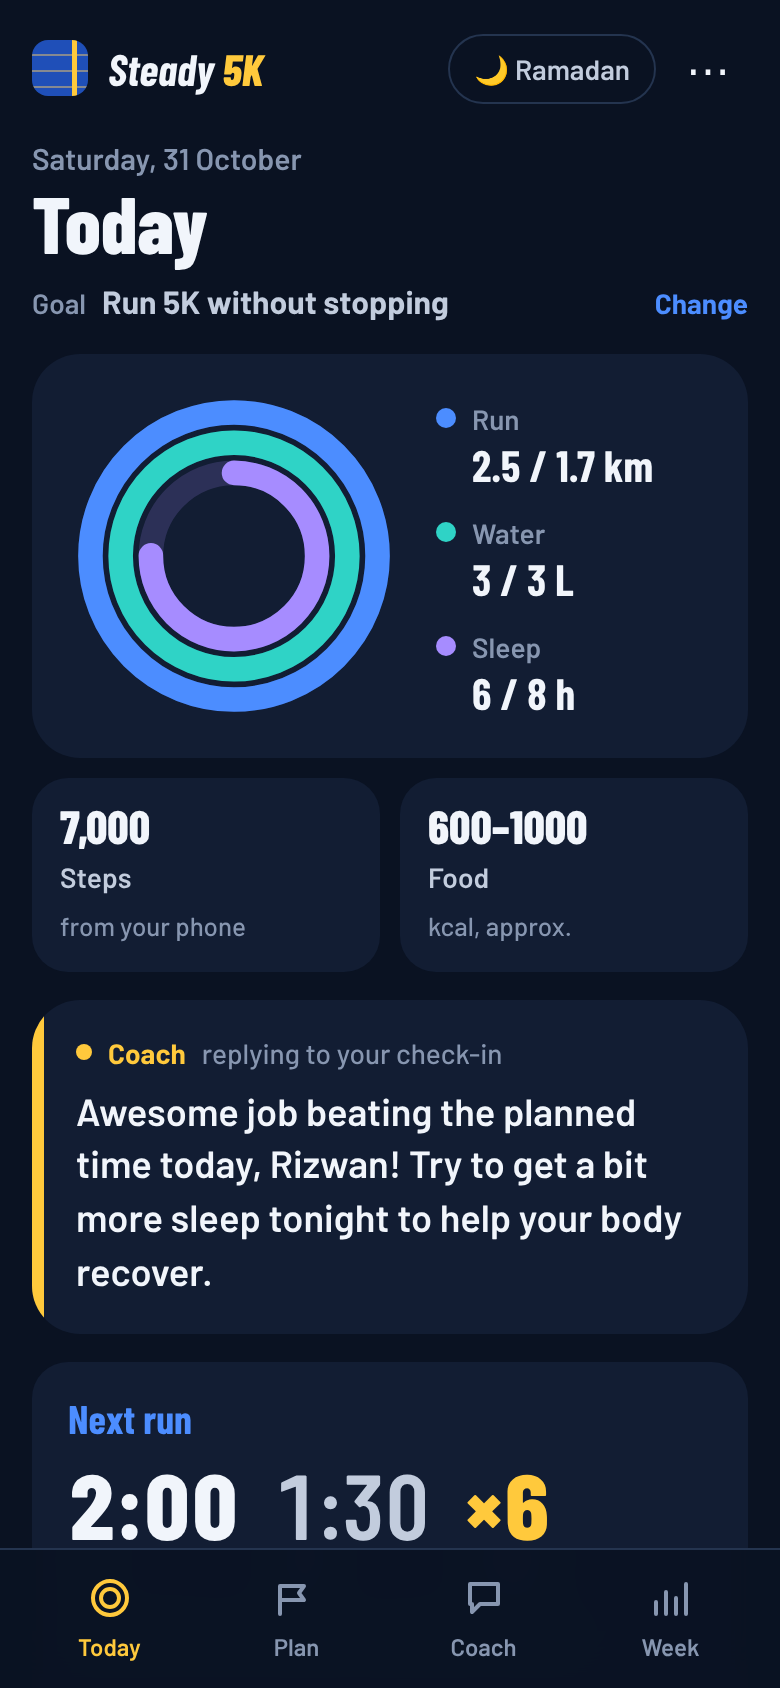
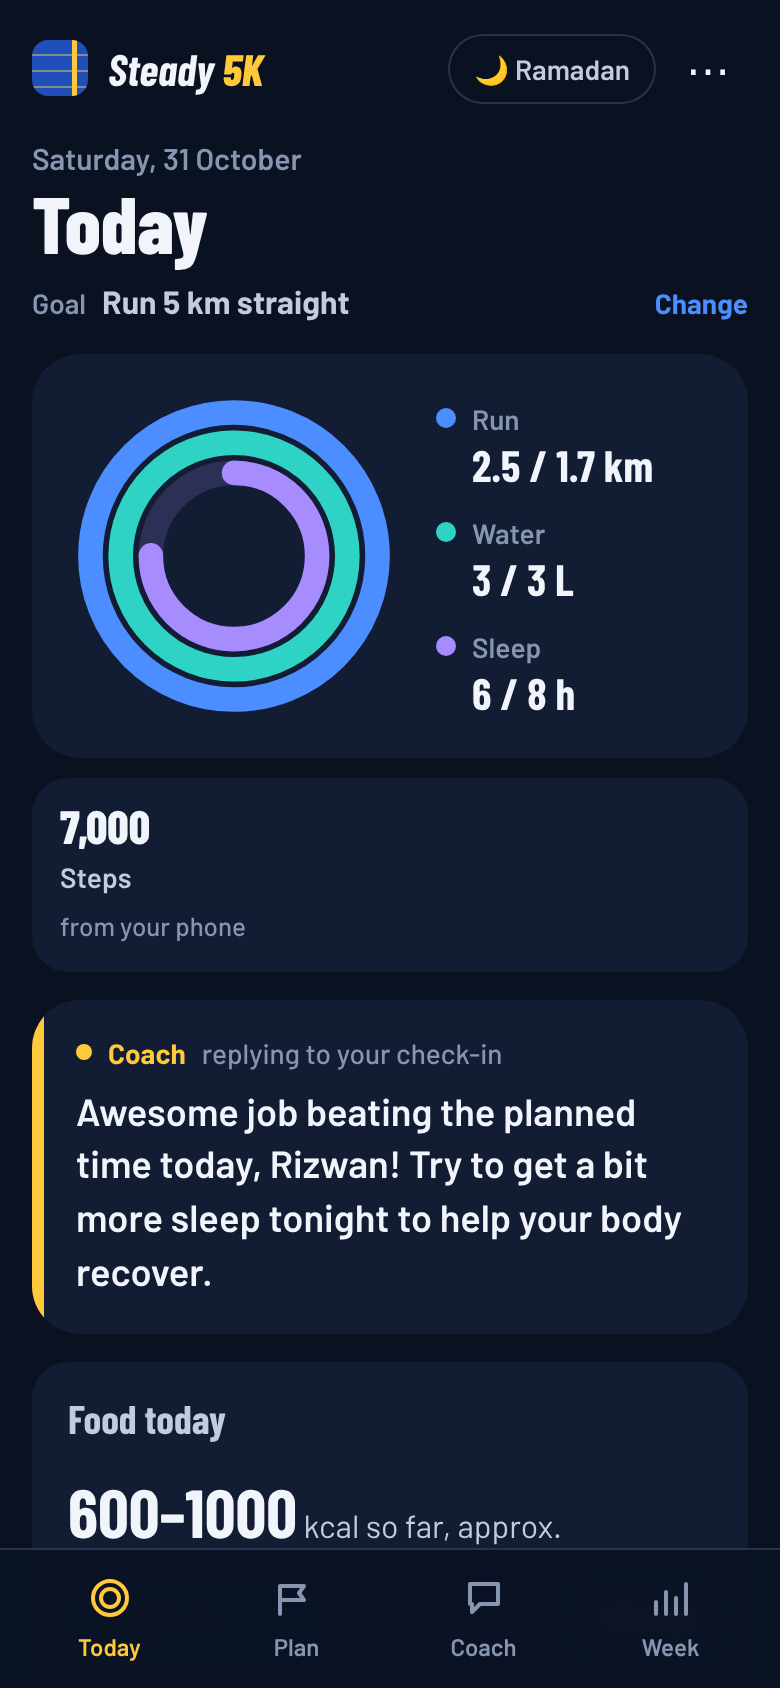
Q4/Q5: write up Rizwan's test and the changes it led to (own-words goals, level question with a reason, calorie goal, editable goals); new screenshots
Claude-Session: https://claude.ai/code/session_01KnAXkYM5bv2tZhbofiWiib

diff --git a/REPORT.md b/REPORT.md
@@ -54,7 +54,7 @@ My customer is **Rizwan, 22, a college student who started running two months ag
 - **Reason 3 (paywalls destroy trust):** he is one of the few people in my research who would pay, and only for real personalisation. That is the bar the app has to clear.
 - Generic apps fail hardest when life changes (Kidman et al. list "evolving needs" as a reason people leave). Ramadan is a predictable, month-long change that no app Rizwan uses accounts for.
 
-Choosing Rizwan also removes several class concerns: D03 (no target age group), D02 and D01 (too many features: he named five things he cares about and left out steps), D05 (wearables: he runs with his phone) and D09 (no celebrity avatars needed).
+Choosing Rizwan also removes class concerns D01–D03 (no target user, too many features), D05 (he runs with his phone) and D09 (no celebrity avatars).
 
 ## Q3. What does AI do in my app that ordinary software could not?
 
@@ -108,7 +108,7 @@ Every screen shows a "not medical advice" notice, and only made-up data is used.
 | ID | Feature | Build now / Later / Never | Reason |
 |---|---|---|---|
 | F01 | Food photo to calories | Later | Rizwan ranked calories last, his food is home-cooked and easy to describe in words, and photo estimates of regional dishes are unreliable (D06, D11). Respondent A asked for it, so it is the first thing to add if users want more food help. |
-| F02 | Profile and goals | Build now (changed) | No profile form and no BMI. He picks one of the two goals he named, **5K non-stop** or **10K**, then describes his running in his own words; the AI sets his start step and finish date. Goals are saved, each with its own progress, so he just taps one when he opens the app. Open-ended goals ("get healthy") are left out on purpose (Q2). The "how I want to look" image is **Never**: body-image targets do not fit his goal and carry real harm. |
+| F02 | Profile and goals | Build now (changed after the user test) | No form and no BMI. He writes his goals in his own words and the AI turns them into goals the app supports: 5K non-stop, 10K, or keeping track of calories. Goals are saved, editable, and all keep going; he picks one to focus on. Weight-loss or body-shape targets are declined (Q2, safety), as is the "how I want to look" image (**Never**). |
 | F03 | Activity tracking | Build now (running and steps) | Run distance, time and walk breaks come from his message. Steps are logged from what he reads off his phone ("7k steps"), because a browser cannot read the phone's step counter; he left steps out of his ranking, so they are shown but never drive the plan. Cycling: Never. |
 | F04 | Diet plan | Never (calorie deficit) / Build now (water) | He wants to become a runner, not lose weight, and a deficit plan for a fasting 22-year-old is a risk. The daily water target stays, because thirst is his biggest problem. |
 | F05 | Progress tracker | Build now (changed) | Progress means steps towards 5K non-stop and a finish-line date (Q1, reason 2). The fasting tracker becomes Ramadan mode (N01). Supplements and reward points: **Never** (Q1, reason 3). |
@@ -132,28 +132,31 @@ Every screen shows a "not medical advice" notice, and only made-up data is used.
 | N05 | Offline demo mode | Build now | If the AI call fails (D08), the app still logs and shows the plan, with a clear banner. |
 | N06 | Strava import | Later | He already records runs in Strava; importing them would save him retyping distance and time. |
 | N07 | Full session guide | Build now | Every run comes with a step-by-step warm-up, the main run with a pace cue ("you can speak in short sentences"), a cool-down with stretches, and tips (Ramadan timing, when to stop). Rizwan is two months into running and struggles with stamina and back pain; a bare "run 3 min, walk 1.5 min" assumes he knows how to warm up. It is folded away so the daily screen stays short (H4). |
+| N08 | Calorie-tracking goal | Build now (after the user test) | Rizwan asked to "monitor my calorie intake" alongside running (Q5). Awareness only: rough ranges per meal, a daily total and a 7-day chart, with no target, deficit or diet (F04 stays Never). |
 
-That is 9 of 18 class features built in some form, most of them reshaped, plus 6 new ones. Choosing one customer removed the reason for most of the rest.
+That is 9 of 18 class features built in some form, most of them reshaped, plus 7 new ones. Choosing one customer removed the reason for most of the rest.
 
 **The core experience**
 
-*First two minutes.* Rizwan opens the link and picks his goal (5K non-stop, or 10K), then answers one question: "How's your running right now?" He types or says "I can run about 1.5 km before I need to walk, 3 days a week." In the live test the AI placed him on step 3 of 13 (run 2 minutes, walk 1.5 minutes, six times), set a finish line of mid-December for 5K non-stop, and confirmed where he starts. No sign-up, no form.
+*First two minutes.* Rizwan opens the link and writes his goal in his own words ("run 5km straight and monitor my calorie intake"); the AI turns it into two goals. Two taps say how far he can run before walking and how often he can run, and the plan starts at step 3 of 13 with a finish line in mid-December. No sign-up, no form.
 
 *A normal day.* The coach's message is waiting when he opens the app, above three goal rings for run, water and sleep; the Plan tab gives the full warm-up, run and cool-down. In the evening he sends one check-in, typed or spoken: "ran 2.5k, walked twice, 7k steps, 3 bottles water, slept 1 to 7, rice and fish curry for lunch." The app fills in run, steps, water, sleep and an approximate calorie range, replies in two lines, and moves the plan up, holds it, or eases off. If he reports back pain, tomorrow gets easier; if he reports chest tightness, training pauses.
 
 *Screenshots.* Rendered from the deployed code (final design), replaying the replies the live AI gave at steady-5k.vercel.app on 31 October.
 
-| 1. Setup: pick a goal, then one question | 2. Today: goal rings for run, water and sleep | 3. Coach tab: evening check-in, logged and answered |
+| 1. Setup: his goal, in his own words | 2. Today: goal rings for run, water and sleep | 3. Coach tab: evening check-in, logged and answered |
 |---|---|---|
 | <img src="docs/screenshots/1-setup.png" width="230"> | <img src="docs/screenshots/2-today.png" width="230"> | <img src="docs/screenshots/3-checkin.png" width="230"> |
 | **4. Plan tab: finish line and full session** | **5. Ramadan mode switches on by itself** | **6. Red flag pauses training** |
 | <img src="docs/screenshots/4-full-session.png" width="230"> | <img src="docs/screenshots/5-ramadan.png" width="230"> | <img src="docs/screenshots/6-red-flag.png" width="230"> |
+| **7. After the test: goals read from his words, level by taps** | **8. Goals saved, editable, all kept going** | **9. Calorie goal in focus: food first, no target** |
+| <img src="docs/screenshots/7-goals-level.png" width="230"> | <img src="docs/screenshots/8-goal-list.png" width="230"> | <img src="docs/screenshots/9-food.png" width="230"> |
 
 **My three hardest calls:**
 
-1. **Pushing calories into the background.** Photo calories (F01) and a diet plan (F04) were the class's headline features, and Respondent A asked for photo logging. But Rizwan ranked calories last, his goal is running, not weight, and Q1 shows food logging is the chore that makes people quit. I chose rough calorie ranges from words, with no targets. *What would change my mind:* if Rizwan or other runners ask for food guidance after using it (he said he would pay for "personalized diet guidance"), I would add it, reviewed by a dietitian.
+1. **Pushing calories into the background.** Photo calories (F01) and a diet plan (F04) were the class's headline features, and Respondent A asked for photo logging. But Rizwan ranked calories last, his goal is running, not weight, and Q1 shows food logging is the chore that makes people quit. I chose rough calorie ranges from words, with no targets. *What would change my mind:* Rizwan asking for food help after using it. He did (Q5), so calorie tracking became a goal of its own, still awareness only; real diet guidance would need a dietitian.
 2. **"Message me first" in a browser.** Rizwan and Respondent B both asked for this. Real phone notifications need an installed app, and the brief requires no install. I chose a coach message already written when he opens the app. *What would change my mind:* if testing shows he forgets to open the app for days, opt-in web push or WhatsApp reminders become worth the extra setup.
-3. **How much control the AI gets over the plan.** A fixed plan is predictable but is exactly the one-size-fits-all approach that bores people (Q1, reason 2). A plan the AI rewrites freely is personal but could push a new runner too hard. I chose a middle path: the AI decides whether to move up, repeat, ease off or rest, and the code enforces the limits (a fixed 13-step ladder, two good sessions before moving up, at most one change a day, never moving up with pain, and a red-flag pause the AI cannot override). *What would change my mind:* if the Q3 tests show the AI is consistently sensible, it could adjust session lengths too; if it is erratic, I would narrow it further.
+3. **How much control the AI gets over the plan.** A fixed plan is the one-size-fits-all approach that bores people (Q1, reason 2); a plan the AI rewrites freely could push a new runner too hard. I chose a middle path: the AI decides whether to move up, repeat, ease off or rest, and the code enforces the limits (a fixed 13-step ladder, two good sessions before moving up, at most one change a day, never moving up with pain, and a red-flag pause the AI cannot override). *What would change my mind:* the Q3 tests showed it was too cautious, not reckless, so I loosened its judgement of a completed run rather than its limits.
 
 ## Q5. User test
 
@@ -161,7 +164,21 @@ That is 9 of 18 class features built in some form, most of them reshaped, plus 6
 
 **Who tested it, what they did, what confused them, and what I changed:**
 
-[To be completed after Rizwan's test on 31 October: what he did in the first two minutes, his check-in, what confused him, and the change I made in response.]
+**Rizwan** tried the live app on his own phone on 31 October. He opened the link and typed an answer to the first question, "How's your running right now?"
+
+**What confused him:**
+
+1. He asked what that question was for. The app never said why it needed to know.
+2. The app pointed to only one goal, running 5 km straight. He wants to work on two at the same time: "run 5 km straight and monitor my calorie intake".
+
+**What I changed:**
+
+1. The first screen now asks **"What's your goal?"**, in his own words. The AI turns his sentence into goals and politely declines anything it cannot help with ("lose 10 kg" was declined in testing).
+2. The starting-level question comes after the goal, says why it is asked ("so your running plan starts at the right level"), and is answered with taps.
+3. A **calorie-tracking goal**: rough ranges per meal and a 7-day chart, with no target or diet (N08).
+4. Goals are **saved, editable and all keep going**; he picks the one to focus on.
+
+The second point overturned a call from Q2 and Q4: he ranked calories last in the interview, but once tracking cost him nothing, he wanted it. The new version has not yet been re-tested with him.
 
 ## References
 
